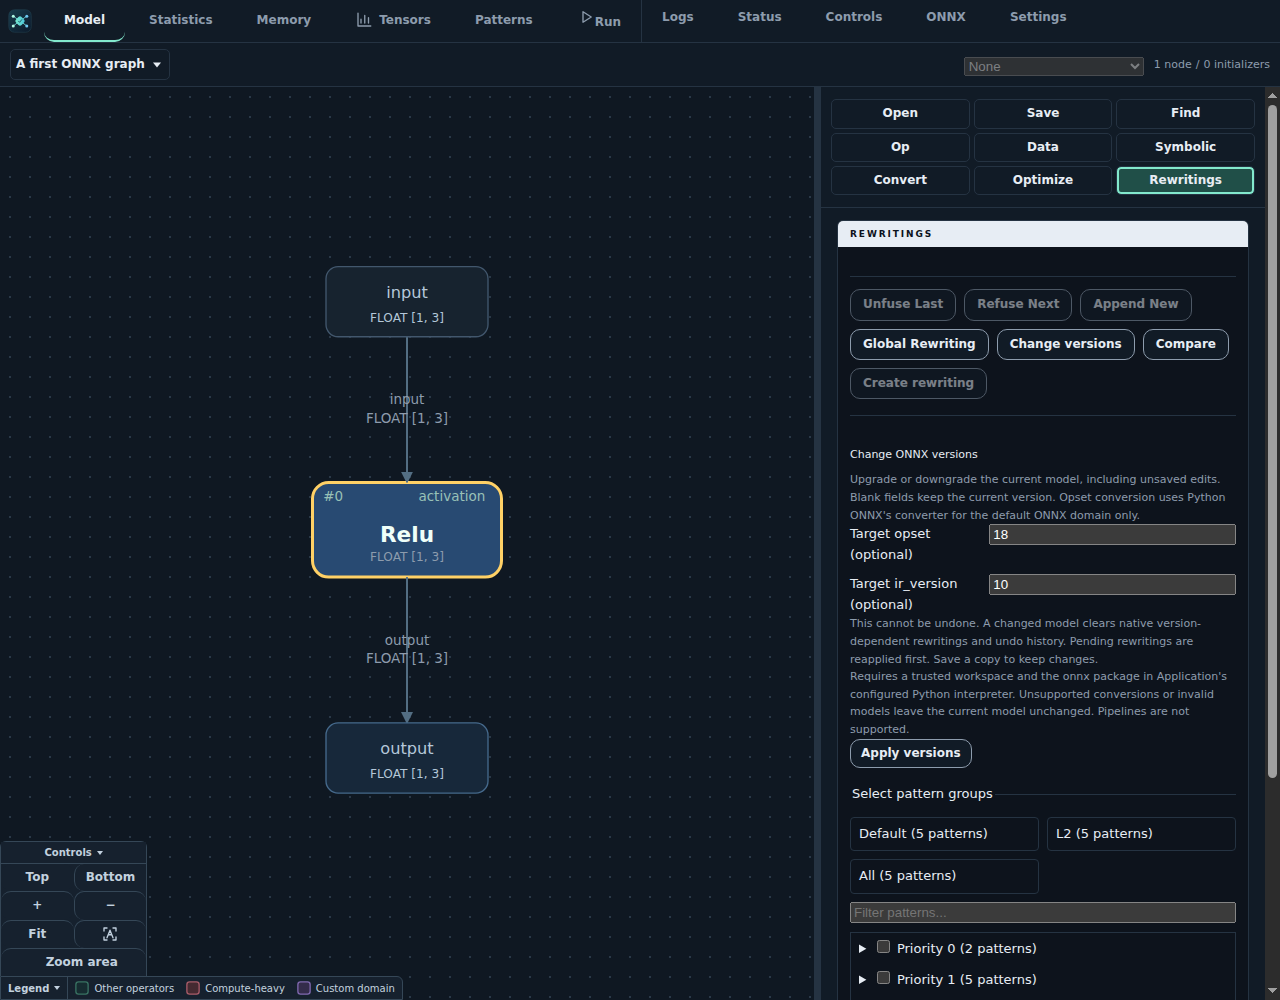
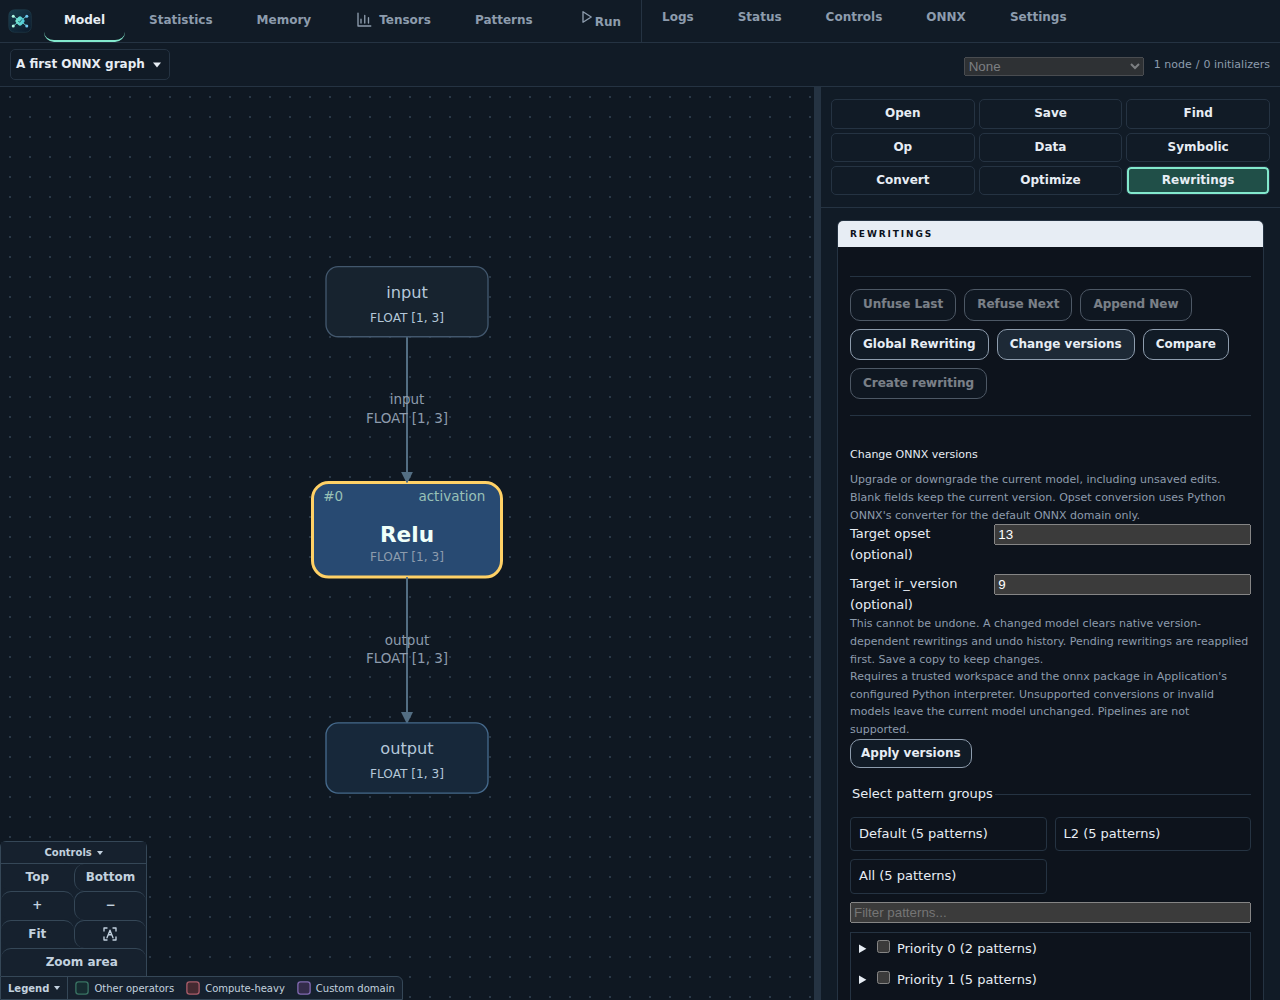
Prefill version conversion fields with current model values
Initialize the default-domain opset and IR version from the loaded graph, preserve edits while reopening the panel, and refresh fields on model replacement. Update focused UI tests and the conversion screenshot.

diff --git a/src/webview.ts b/src/webview.ts
@@ -496,8 +496,8 @@ export function webviewHtml(
               <h3 id="versions-title">Change ONNX versions</h3>
               <p>Upgrade or downgrade the current model, including unsaved edits. Blank fields keep the current version. Opset conversion uses Python ONNX's converter for the default ONNX domain only.</p>
               <div class="form-grid">
-                <label for="versions-opset">Target opset (optional)</label><input id="versions-opset" type="number" min="1" step="1" placeholder="Keep current">
-                <label for="versions-ir">Target ir_version (optional)</label><input id="versions-ir" type="number" min="1" step="1" placeholder="Keep current">
+                <label for="versions-opset">Target opset (optional)</label><input id="versions-opset" type="number" min="1" step="1">
+                <label for="versions-ir">Target ir_version (optional)</label><input id="versions-ir" type="number" min="1" step="1">
               </div>
               <p>This cannot be undone. A changed model clears native version-dependent rewritings and undo history. Pending rewritings are reapplied first. Save a copy to keep changes.</p>
               <p>Requires a trusted workspace and the onnx package in Application's configured Python interpreter. Unsupported conversions or invalid models leave the current model unchanged. Pipelines are not supported.</p>

diff --git a/media/fusion-panel.js b/media/fusion-panel.js
@@ -2045,8 +2045,10 @@ function createFusionPanel({
     byId("versions-panel").hidden = true;
     byId("change-versions").setAttribute("aria-expanded", "false");
     byId("versions-status").textContent = "";
-    byId("versions-opset").value = "";
-    byId("versions-ir").value = "";
+    byId("versions-opset").value =
+      graph?.opsets?.find(({ domain }) => !domain || domain === "ai.onnx")
+        ?.version ?? "";
+    byId("versions-ir").value = graph?.irVersion ?? "";
     optimizationFinished = false;
     byId("optimization-rewriting-status").textContent = "";
     byId("optimization-rewriting-name").value = "";

diff --git a/docs/features.rst b/docs/features.rst
@@ -659,8 +659,9 @@ Changing model versions
 ^^^^^^^^^^^^^^^^^^^^^^^
 
 Open **Rewritings → Change versions** to upgrade or downgrade the current
-model's default-domain ONNX opset and/or ``ir_version``. Enter positive integers;
-leave either field blank to retain its current value. **Apply versions** uses
+model's default-domain ONNX opset and/or ``ir_version``. Both fields start with
+the current model's values. Enter positive integers; leave either field blank
+to retain its current value. **Apply versions** uses
 the official Python ``onnx.version_converter.convert_version`` for opset
 conversion, then sets ``ir_version`` and checks the result with ``onnx.checker``.
 It does not convert custom-domain opsets or change the onnx-light library.
